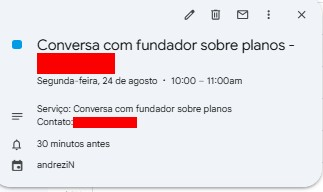
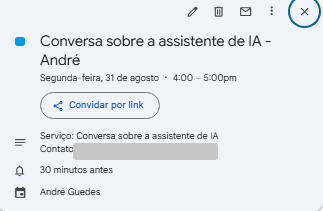
Capturas novas: conversa real no WhatsApp e evento no Calendar (31/08), telefone tarjado

diff --git a/README.md b/README.md
@@ -22,7 +22,7 @@ Sem framework de bot, sem fila externa, sem contêineres. O que essa escolha
 exige em troca — concorrência e falha resolvidas com o banco e com o desenho —
 é o assunto do resto deste README.
 
-![Conversa de agendamento pelo WhatsApp](docs/agendamento-conversa.png)
+![Conversa de agendamento pelo WhatsApp](docs/agendamento-conversa.jpg)
 
 ![Evento criado no Google Calendar do negócio](docs/agendamento-calendar.png)
 
